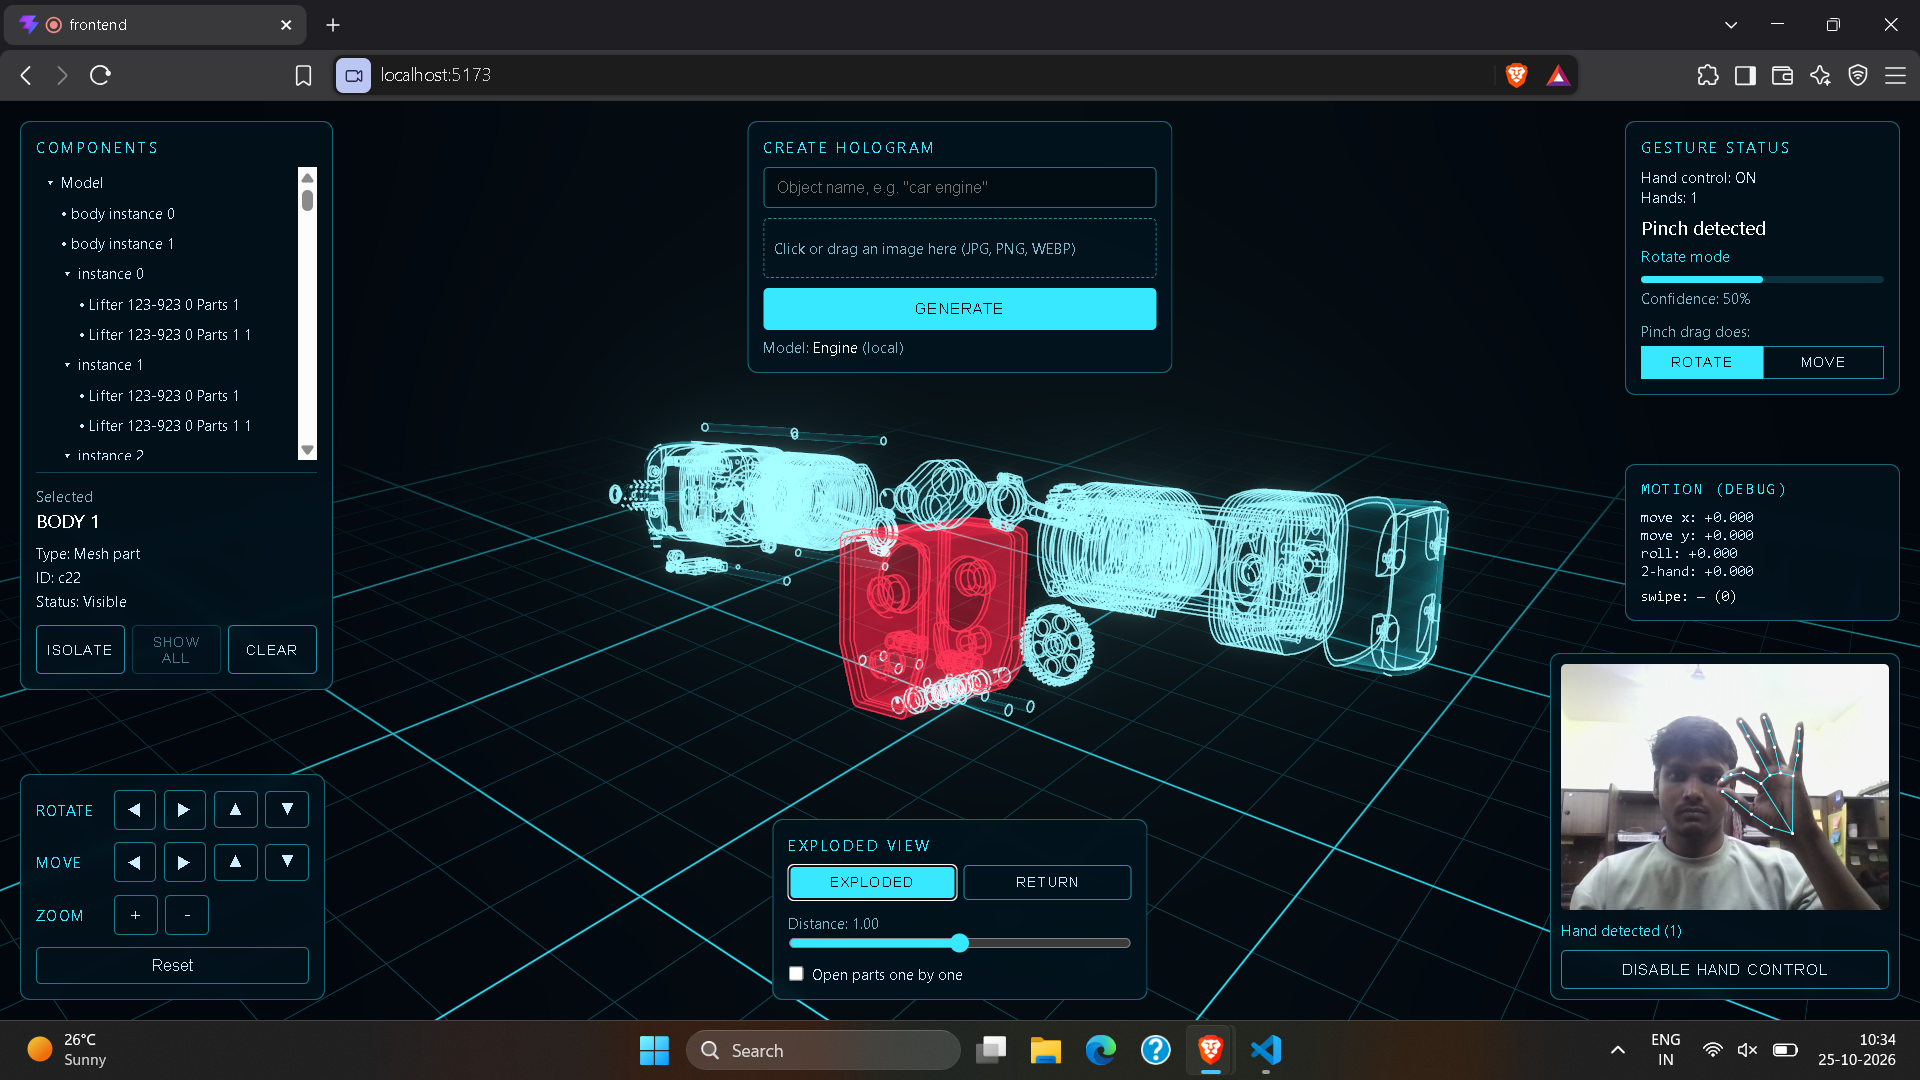
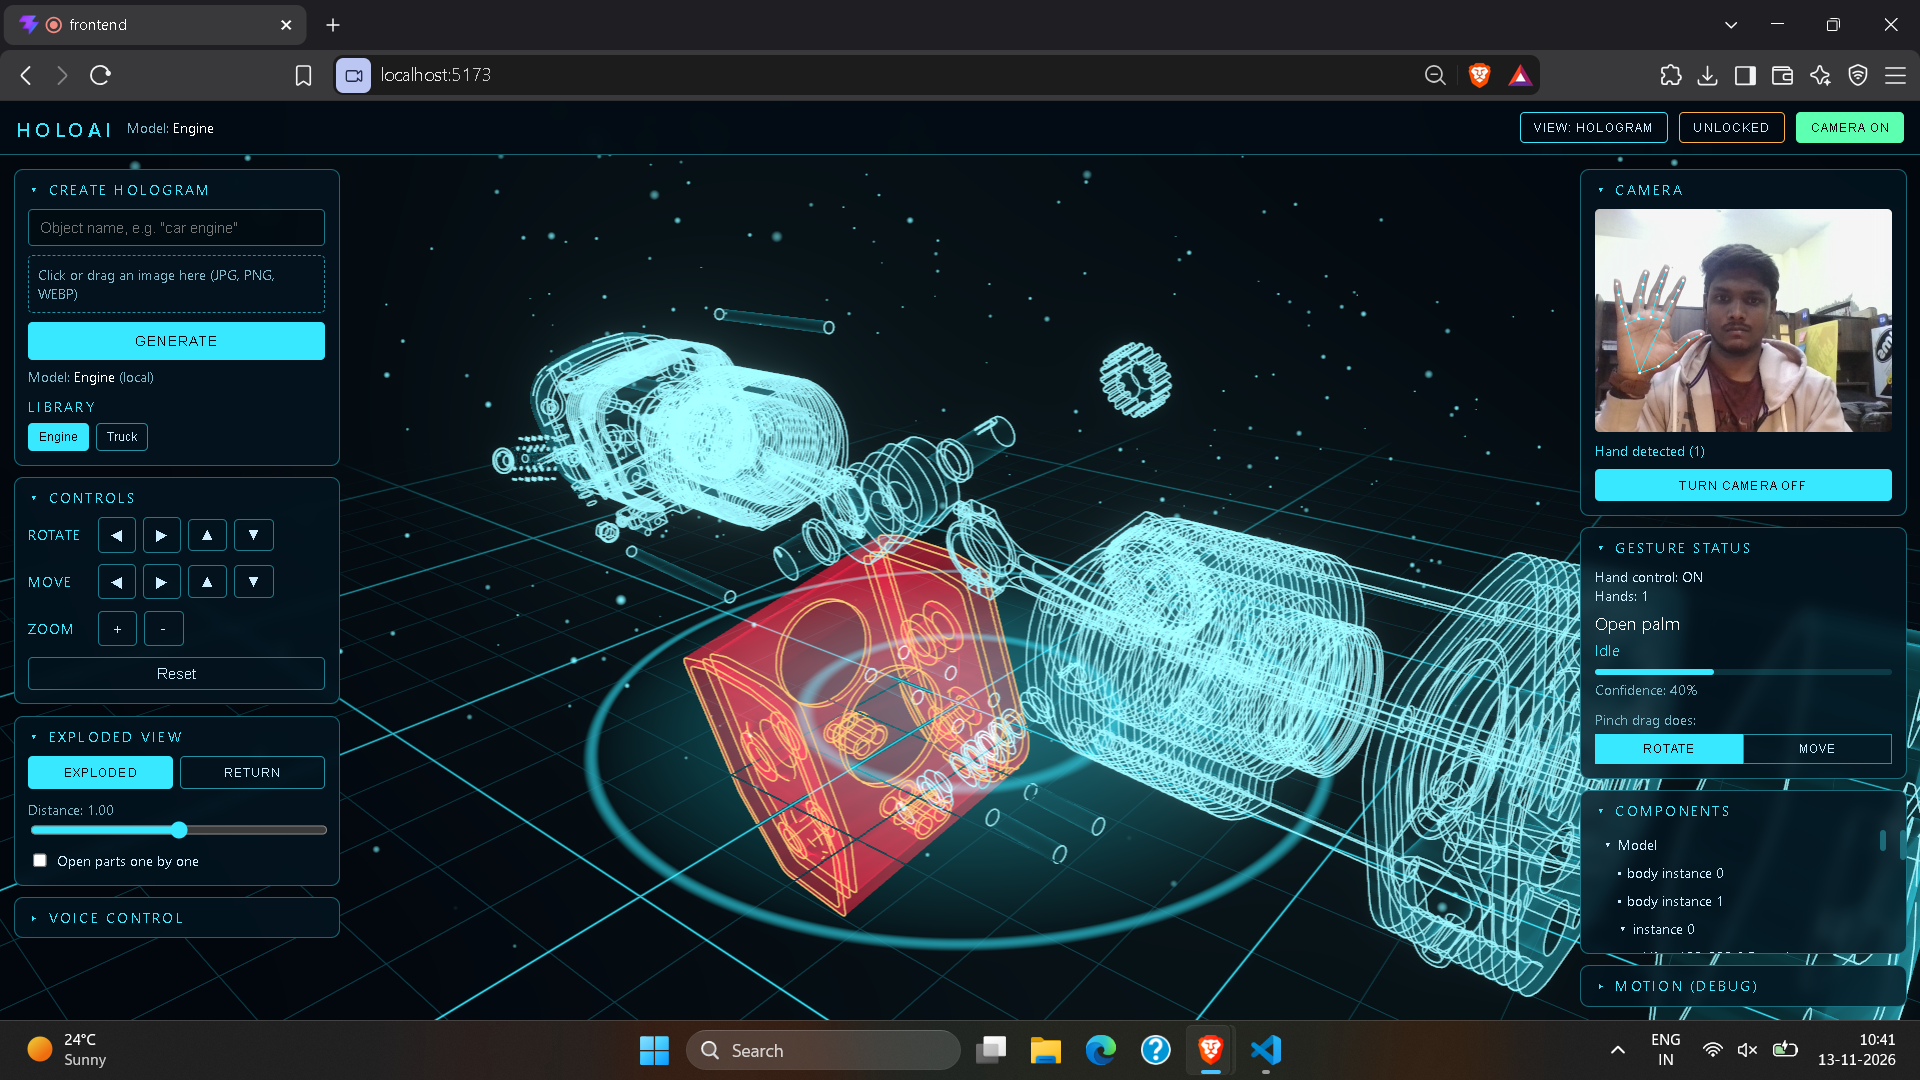
.

diff --git a/README.md b/README.md
@@ -1,18 +1,23 @@
 # HoloAI
 
-An interactive 3D **hologram-style viewer** you control with your **hands** through a webcam. It runs entirely in the browser on a normal screen: no projection hardware, just shaders, glow and real-time hand tracking.
+An interactive 3D **hologram-style viewer** you control with your **hands** through a webcam, or with your **voice**. It runs in the browser on a normal screen: no projection hardware, just shaders, glow and real-time hand tracking.
+
+**Live demo:** _add your Vercel link here_ (the API sleeps when idle, so the first request can take about 30 seconds)
 
 ![HoloAI screenshot](docs/screenshot.png)
 
 ## Features
 
-- **Hologram rendering:** custom GLSL shader with fresnel rim light, scan lines, flicker, glowing edge outlines, bloom and a grid floor
+- **Hologram rendering:** custom GLSL shader with fresnel rim light, scan lines, flicker, glowing edge outlines, bloom, particles and a grid floor
+- **Solid view:** switch to a lit, shadowed material view with a built-in studio environment
 - **Hand gesture control:** MediaPipe hand tracking with smoothing, dead zones, hysteresis, debouncing and cooldowns, so webcam noise doesn't shake the model
-- **Component interaction:** hover, select and isolate individual parts, with a component tree built from the model's real hierarchy
+- **Component interaction:** hover, select, isolate and move individual parts, with a component tree built from the model's real hierarchy
 - **Exploded view:** parts glide apart along their own direction, with an adjustable distance and step-by-step opening
-- **Pointing:** aim at a part with your index finger, then hold still or pinch with the other hand to select
-- **Model input:** text prompt, image upload and drag-and-drop, backed by a FastAPI service with validated uploads
-- **Swappable AI backend:** the generator sits behind one interface (`ModelGenerator`), so a real text-to-3D or image-to-3D service can replace the mock
+- **Lock mode:** freeze the model so stray gestures can't change it
+- **Voice and typed commands:** "explode", "next part", "select piston", "solid view", "load gearbox" (typed commands work in every browser)
+- **Model library and prompt input:** pick a model, type an object name, or add an image. The backend validates uploads and matches names to a model catalog
+- **Swappable generator:** model creation sits behind one interface (`ModelGenerator`), so a real text-to-3D or image-to-3D service can replace the catalog matcher
+- **Tested backend:** pytest suite for the API, upload validation and model matching
 
 ## Gestures
 
@@ -21,20 +26,22 @@ An interactive 3D **hologram-style viewer** you control with your **hands** thro
 | Pinch + move hand | Rotate (or move, via a toggle) |
 | Pinch + tilt wrist | Roll the model |
 | Both hands pinch, spread apart / together | Zoom in / out |
-| Open palm | Release / pause |
-| Fist held for 1 second | Reset view |
 | Point with index finger | Highlight a part |
 | Point + hold still for 1 second, or pinch with the other hand | Select it |
+| Point, then touch index and middle fingers together | Grab the part and move it |
 | Both open palms, spread apart / together | Explode / return |
 | Open palm, quick swipe right / left | Open next / previous part |
+| One fist held for 1 second | Reset view |
+| Both fists held for about 1 second | Lock / unlock |
 
 Mouse and on-screen buttons work as a fallback.
 
 ## Tech stack
 
 - **Frontend:** React, TypeScript, Vite, Three.js, React Three Fiber, drei, postprocessing, Zustand
-- **Hand tracking:** MediaPipe Tasks Vision (`HandLandmarker`)
-- **Backend:** Python, FastAPI, Pydantic, Pillow
+- **Hand tracking:** MediaPipe Tasks Vision (`HandLandmarker`), model and WASM files served locally
+- **Voice:** Web Speech API (Chrome and Edge), with a typed-command fallback
+- **Backend:** Python, FastAPI, Pydantic, Pillow, pytest
 
 ## Run it locally
 
@@ -46,9 +53,10 @@ You need Node 18+ and Python 3.10+. Use Chrome, Edge or Brave. The webcam only w
 cd backend
 python -m venv venv
 venv\Scripts\activate          # macOS/Linux: source venv/bin/activate
-pip install -r requirements.txt
+pip install -r requirements-dev.txt
 cp .env.example .env           # Windows: copy .env.example .env
 uvicorn app.main:app --reload --port 8000
+pytest                         # run the tests
 ```
 
 **Frontend** (in a second terminal)
@@ -56,43 +64,48 @@ uvicorn app.main:app --reload --port 8000
 ```bash
 cd frontend
 npm install
-cp .env.example .env           # Windows: copy .env.example .env
 npm run dev
 ```
 
-Open http://localhost:5173, click **Enable Hand Control** and allow the camera. The hand tracker downloads its model file on first use, so you need an internet connection once.
+Open http://localhost:5173, click **Camera OFF** in the header (or **Turn camera on**) and allow the camera. API docs are at http://localhost:8000/docs.
 
-API docs are at http://localhost:8000/docs.
+To point the website at another API, create `frontend/.env` with `VITE_API_URL=https://your-api.example.com`.
+
+## Deploy
+
+- **API:** Render web service, root directory `backend`, build `pip install -r requirements.txt`, start `uvicorn app.main:app --host 0.0.0.0 --port $PORT`. Set `CORS_ORIGINS` to the website address.
+- **Website:** Vercel, root directory `frontend`, environment variable `VITE_API_URL` set to the API address.
 
 ## Project structure
 
 ```
 frontend/src/
-  components/   UI panels (viewer, gestures, tree, exploded view, upload)
+  components/   UI panels (header, viewer, gestures, tree, exploded view, upload, voice)
   three/        shader material, model manager, exploded-view controller, hand picker
   gestures/     hand tracker, gesture recognizer, motion tracker, mapper, filters
+  voice/        command parser and speech wrapper
   store/        Zustand stores
   api/          backend client
 backend/app/
-  api/routes/   upload, analyze, generate, model endpoints
-  services/     model service, image analysis, generators (base + mock)
-  utils/        upload validation and filename sanitizing
+  api/routes/   upload, analyze, generate, catalog and model endpoints
+  services/     model catalog, image analysis, generators (base + catalog matcher)
+  utils/        upload validation and id checks
+backend/tests/  pytest suite
 ```
 
-## Current status and roadmap
+## Status and roadmap
 
-- [x] Hologram viewer with rotate, move, zoom and reset
+- [x] Hologram and solid viewer with rotate, move, zoom and reset
 - [x] Webcam hand tracking and gesture recognition
-- [x] Gesture-to-model controls
-- [x] Component selection, highlighting, isolation and tree
+- [x] Component selection, highlighting, isolation, moving and tree
 - [x] Exploded view with sequential opening
-- [x] Text and image input, upload validation, API
-- [ ] Real image analysis (currently a placeholder that reads size and dominant color)
-- [ ] Real text-to-3D / image-to-3D generation (currently a **mock** that picks a model from a small library by keyword)
-- [ ] Voice commands
+- [x] Lock mode, voice and typed commands
+- [x] Model library, text and image input, upload validation, API and tests
+- [ ] Real text-to-3D / image-to-3D generation (currently a **catalog matcher** that picks a model by keyword)
+- [ ] Automatic image recognition (an uploaded image currently reports size, format and color only)
 
 AI-generated models are usually a single fused mesh, so the component tree and exploded view work best on multi-part models.
 
 ## Credits
 
-Sample models are from the [Khronos glTF Sample Models](https://github.com/KhronosGroup/glTF-Sample-Models) collection (CesiumMilkTruck and 2CylinderEngine). Check their licenses before reusing.
+Sample models are from the [Khronos glTF Sample Models](https://github.com/KhronosGroup/glTF-Sample-Models) collection (2CylinderEngine, CesiumMilkTruck, GearboxAssy and ReciprocatingSaw). Check their licenses before reusing.
